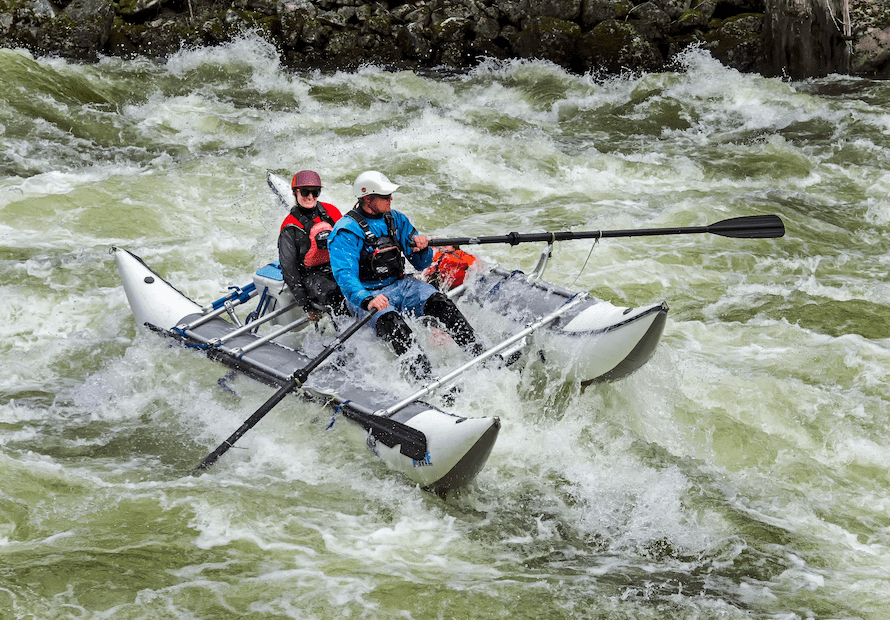
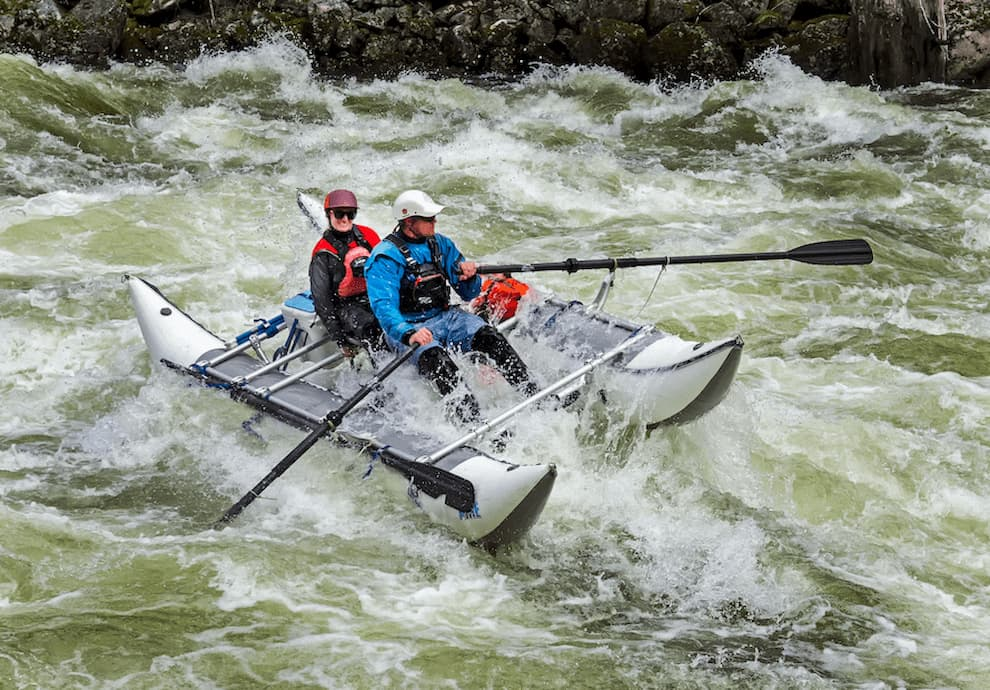
work in progr

diff --git a/wwr/about.html b/wwr/about.html
@@ -20,7 +20,7 @@
                 <li><a href="index.html">Home</a></li>
                 <li><a href="about.html">About Us</a></li>
                 <li><a href="trips.html">Trips</a></li>
-                <li><a href="contact.html"></a>Contact Us</li>
+                <li><a href="contact.html">Contact Us</a></li>
             </ul>
         </nav>
     </header>
